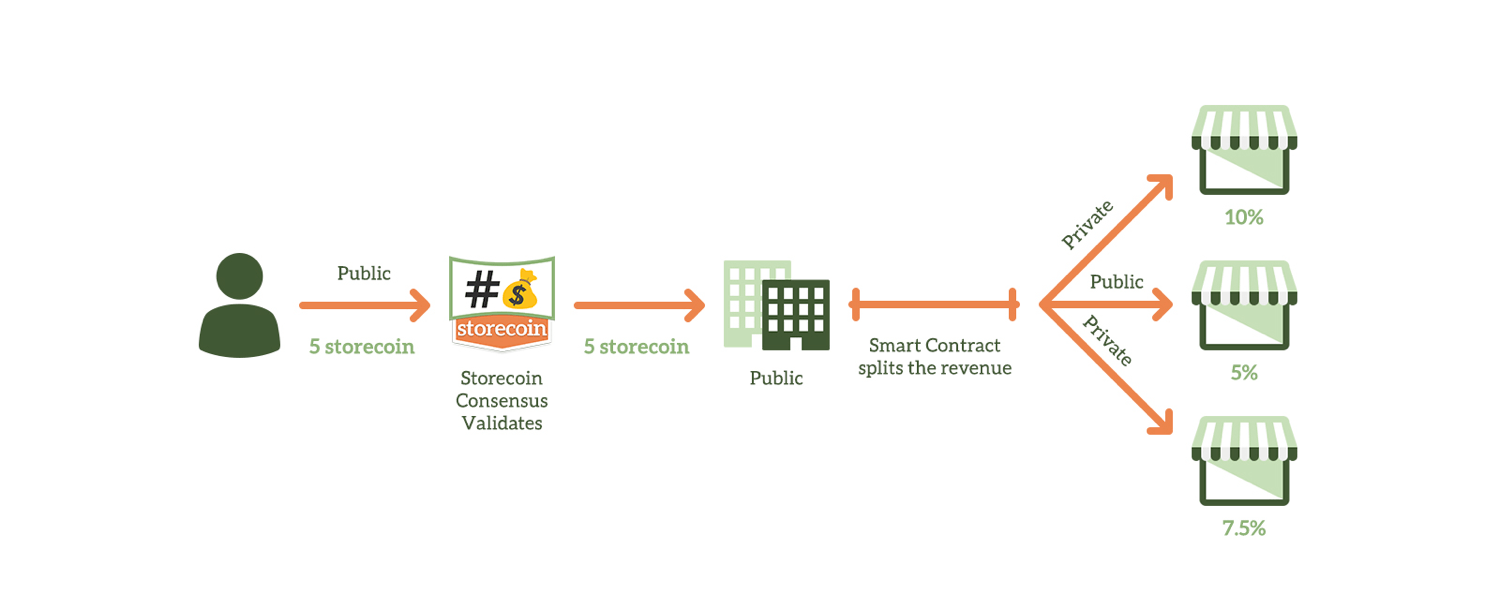
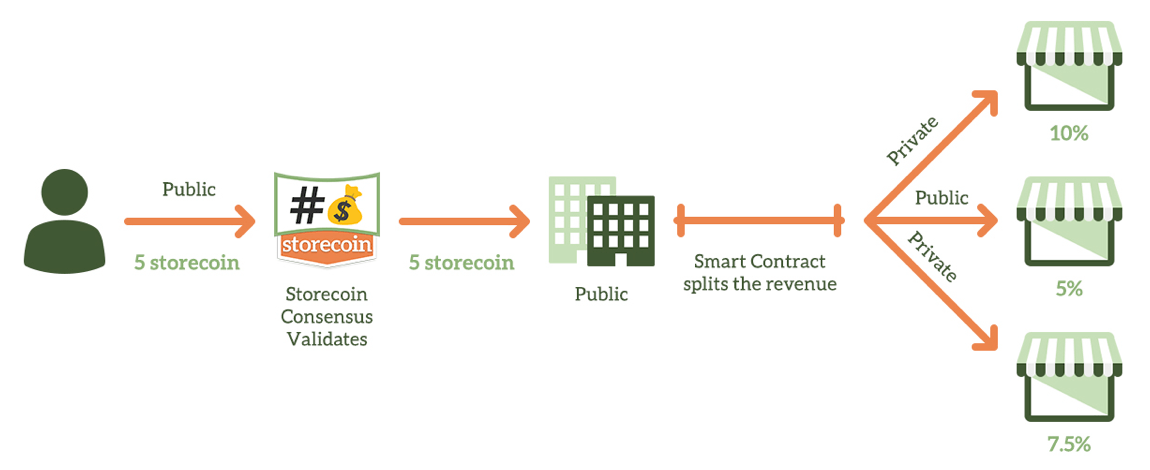
layout changes

Changed region(s): [[0.0, 0.0298, 0.9739, 0.983], [0.913, 0.5957, 0.9435, 0.6255], [0.913, 0.2681, 0.9435, 0.2979]]

diff --git a/app/public/css/styles.css b/app/public/css/styles.css
@@ -1811,7 +1811,8 @@ and (max-width : 700px) {
 }
 
 #hc-problem-slider .slide img {
-  width: 100%;
+  width: auto;
+  max-height: 500px;
 }
 
 #hc-problem-slider .slide {
@@ -1859,6 +1860,11 @@ and (max-width : 700px) {
 
   #hc-why-token .swipe-text {
     font-size: 1em;
+  }
+
+  #hc-problem-slider .slide img {
+    width: 100%;
+    /*max-height: 500px;*/
   }
 
 
